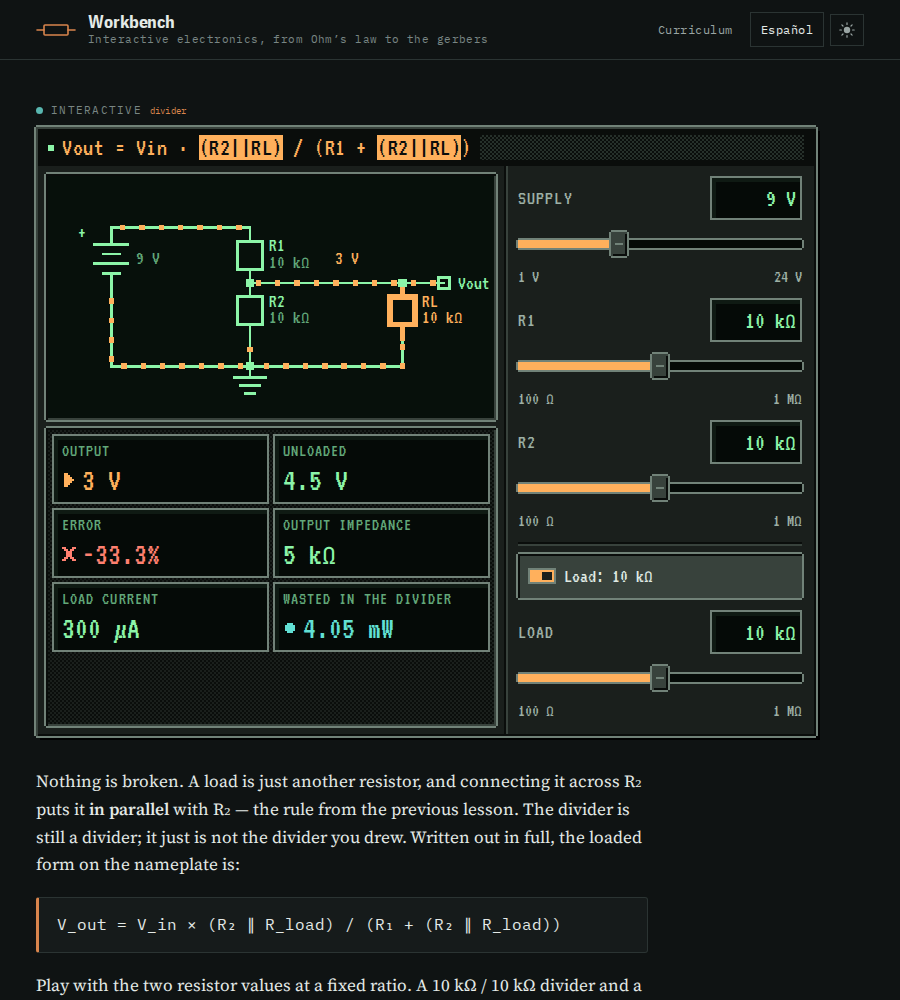
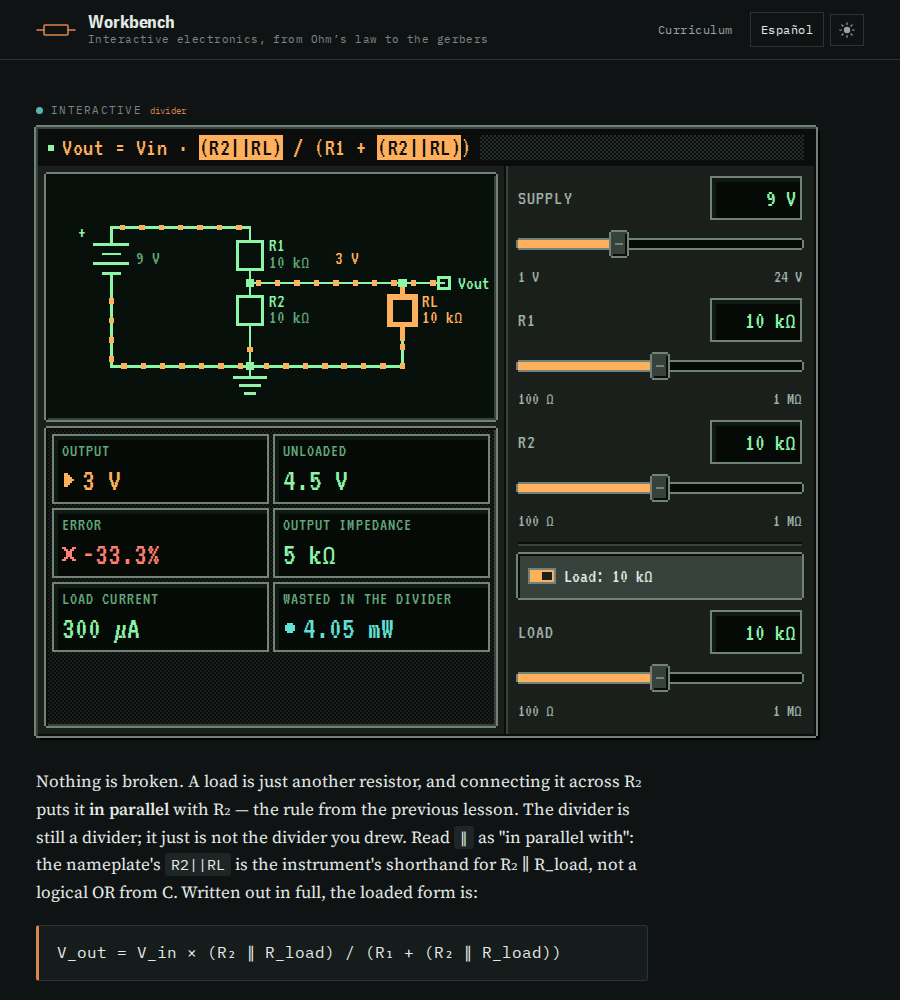
Address PR #2 review: line counts, Panel docs, screenshots, reviewer doc
- ARCHITECTURE: recount i18n (293), ui/ (627) and widgets/ (686); describe
  the Panel heading runs, headingLabel and headingAlt
- docs/design: retake the two loaded divider shots with the current prose
- course-reviewer.md: Classification promoted to a top-level section

Claude-Session: https://claude.ai/code/session_01UMV5SHN5ED6sF6Q6mAdzxj

Changed region(s): [[0.0311, 0.806, 0.7156, 0.992]]

diff --git a/ARCHITECTURE.md b/ARCHITECTURE.md
@@ -118,12 +118,12 @@ electronics/
 │       ├── app.config.server.ts
 │       │
 │       ├── core/               ← services and pure logic (538 lines)
-│       ├── i18n/ui.ts          ← every UI string, both languages (289 lines)
+│       ├── i18n/ui.ts          ← every UI string, both languages (293 lines)
 │       ├── lesson/             ← the Markdown → components renderer (215 lines)
 │       ├── pages/              ← the five routed views (1046 lines)
 │       ├── schematic/          ← SVG symbol library (327 lines)
-│       ├── ui/                 ← panel, control, readout primitives (548 lines)
-│       ├── widgets/            ← the instruments (663 lines)
+│       ├── ui/                 ← panel, control, readout primitives (627 lines)
+│       ├── widgets/            ← the instruments (686 lines)
 │       └── content-generated/  ← BUILD OUTPUT, git-ignored
 │
 ├── Dockerfile                  ← two stages: node builder, nginx runtime
@@ -246,7 +246,12 @@ keeps the Markdown authorable.
 Three shared primitives under `ui/` mean a new instrument is mostly arithmetic:
 
 - **`Panel`** — the frame. Content-projects into four slots: `panelFigure`,
-  `panelControls`, `panelReadouts`, and an optional `panelAction`.
+  `panelControls`, `panelReadouts`, and an optional `panelAction`. Its
+  `heading` (the nameplate) takes a string or runs of text, any of them
+  accented, plus an optional `headingLabel` for the spoken form and an optional
+  `headingAlt` that reserves room for the other form, so the nameplate never
+  resizes (see "Nameplate formulas: the loaded divider" in
+  `docs/DESIGN-PIXEL-ART.md`).
 - **`Control`** — a labelled slider **paired with a text box**. The text box is
   not decoration: it is how a keyboard user operates the instrument, and how a
   reader reproduces the lesson's worked example exactly. It handles logarithmic

diff --git a/.claude/agents/course-reviewer.md b/.claude/agents/course-reviewer.md
@@ -43,9 +43,21 @@ only files you create or edit are `docs/REVIEW.md` and `docs/BIBLIOGRAPHY.md`.
 - **Record.** Add a new dated section directly under the title of
   `docs/REVIEW.md`, `## Verification: <change> (YYYY-MM-DD)`, and leave the
   earlier sections below it as history. It contains what changed, the checks
-  run and their results, a findings table (see Classification), "Fixed during
-  verification", and a final **Ready to merge: yes/no** line. It is "yes" only
-  with zero open Blocker, Major or Minor findings in the change's scope.
+  run and their results, a findings table (see Classification below), "Fixed
+  during verification", and a final **Ready to merge: yes/no** line. It is
+  "yes" only with zero open Blocker, Major or Minor findings in the change's
+  scope.
+
+## Classification
+
+This applies to both modes.
+
+Every finding gets:
+- **Severity**: Blocker / Major / Minor / Suggestion.
+- **Area**: Plan, Pedagogy, Technical accuracy, Design, Accessibility, Code,
+  Content parity, References.
+- **Location**: file and line, or roadmap section / lesson id.
+- **Recommendation**: one concrete action.
 
 ## Full review
 
@@ -71,17 +83,6 @@ only files you create or edit are `docs/REVIEW.md` and `docs/BIBLIOGRAPHY.md`.
    DOI/URL). Do not list anything you could not verify; mark uncertain items
    explicitly. Note Spanish-language editions where they exist, since half the
    readership is Spanish-speaking.
-
-### Classification
-
-This applies to both modes.
-
-Every finding gets:
-- **Severity**: Blocker / Major / Minor / Suggestion.
-- **Area**: Plan, Pedagogy, Technical accuracy, Design, Accessibility, Code,
-  Content parity, References.
-- **Location**: file and line, or roadmap section / lesson id.
-- **Recommendation**: one concrete action.
 
 ### Deliverables
 
